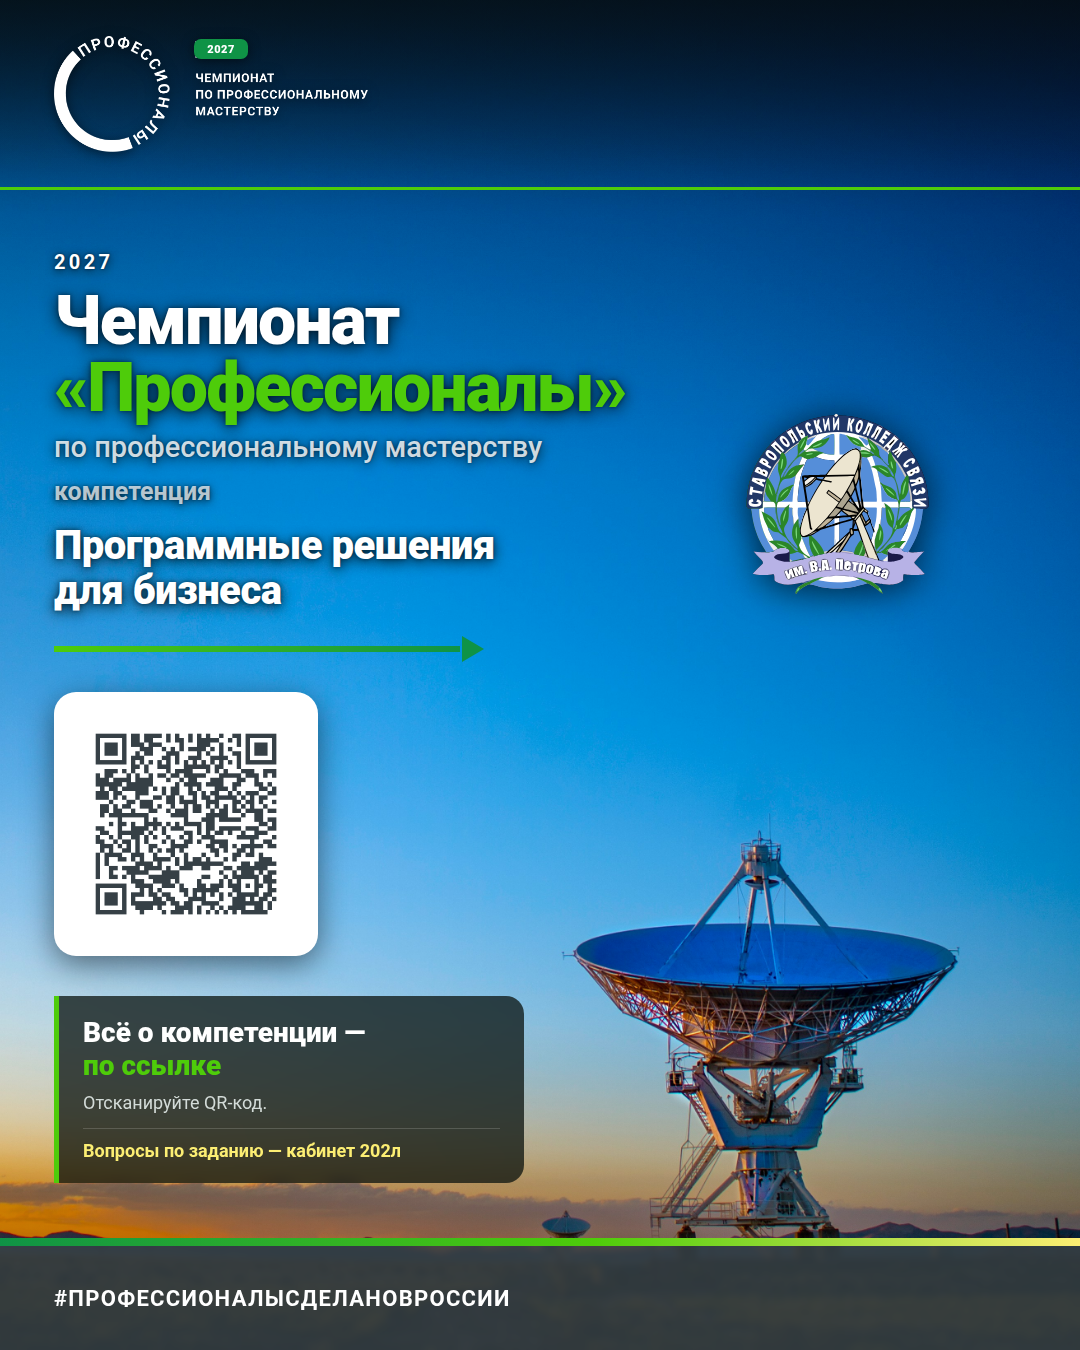
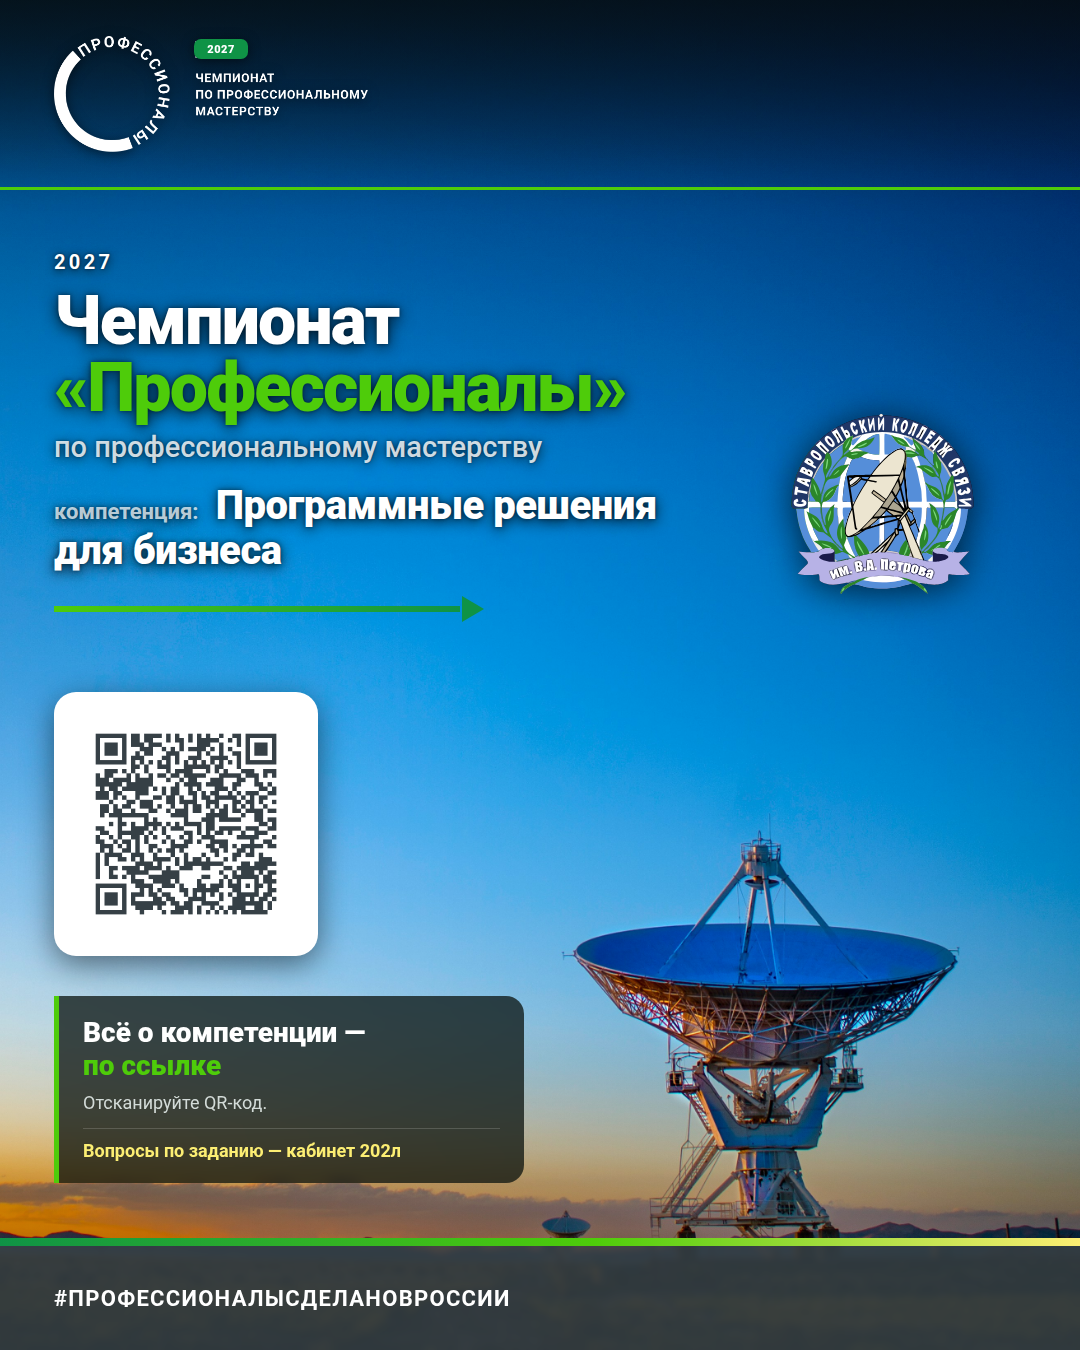
refactor(poster): «компетенция:» подписью внутри заголовка
Слово «компетенция» было отдельной строкой над названием. Теперь это
подпись внутри самого заголовка, на одной строке с названием:

  компетенция: Программные решения
  для бизнеса

Подпись набрана мельче названия (22 px против 40 px в основном,
30 px против 52 px в варианте A) и приглушена, но стоит в том же
абзаце — воспринимается как единая конструкция, а не как отдельный блок.

Чтобы строка поместилась, расширена текстовая колонка и сдвинут слот
логотипа: в основном постере 560 → 660 px (слот логотипа x 650 → 740),
в варианте A 720 → 940 px, там справа только декоративные шевроны
с прозрачностью .16. Ширины померил по рендеру: « Программные решения»
в Roboto 900 на 40 px — около 447 px, подпись на 25 px — 164 px,
вместе 619 px, то есть в колонку 620 px оно попадало впритык и переносилось.

Changed region(s): [[0.0306, 0.3422, 0.6111, 0.4978], [0.6722, 0.28, 0.9167, 0.4667]]

diff --git a/post/poster.html b/post/poster.html
@@ -93,12 +93,12 @@
      Без подложки: чистый svg поверх фотографии. Чтобы отделить знак от
      тёмного неба, вместо фона — только тень, и она не перекрывает фон.
      Выравнивание задаёт слот: это и есть свободная зона в правой части
-     полотна — от текстовой колонки до правого поля (x 650…1026) и от
+     полотна — от текстовой колонки до правого поля (x 740…1026) и от
      низа шапки до верха антенны (y 236…772). Логотип центрируется в ней. */
   .college-slot {
     position: absolute; z-index: 5;
-    left: 650px; top: 236px;
-    width: 376px; height: 536px;
+    left: 740px; top: 236px;
+    width: 286px; height: 536px;
     display: flex; align-items: center; justify-content: center;
   }
   /* Чистый svg: подложки нет, отделяет знак от неба только тень. */
@@ -114,7 +114,7 @@
   .content {
     position: absolute; z-index: 5;
     left: 54px; top: 250px;
-    width: 560px;
+    width: 660px;
   }
 
   .eyebrow {
@@ -141,21 +141,21 @@
     text-shadow: 0 2px 12px rgba(0,0,0,.80), 0 0 3px rgba(0,0,0,.45);
   }
 
-  /* Призыв — самый мелкий из крупных */
-  .sub {
-    margin-top: 12px;
-    font-size: 25px; line-height: 1.2; font-weight: 700;
-    color: rgba(255,255,255,.72);
-    text-shadow: 0 2px 10px rgba(0,0,0,.80), 0 0 3px rgba(0,0,0,.45);
-  }
-
-  /* Компетенция — второй по важности блок */
+  /* Компетенция — второй по важности блок. Подпись «компетенция:»
+     стоит внутри заголовка, на одной строке с названием, но мельче:
+     подпись 25 px, название 40 px. */
   h2 {
-    margin-top: 16px;
+    margin-top: 18px;
     font-size: 40px; line-height: 1.14; font-weight: 900;
     color: var(--white);
     letter-spacing: -.5px;
     text-shadow: 0 3px 14px rgba(0,0,0,.80), 0 0 4px rgba(0,0,0,.50);
+  }
+  h2 .label {
+    font-size: 22px; font-weight: 700;
+    letter-spacing: normal;
+    color: rgba(255,255,255,.74);
+    margin-right: 8px;
   }
 
   .rule { display: flex; align-items: center; margin: 22px 0 0; width: 430px; }
@@ -250,9 +250,7 @@
     <h1>Чемпионат<br><span class="name">«Профессионалы»</span></h1>
     <p class="kicker">по профессиональному мастерству</p>
 
-    <p class="sub">компетенция</p>
-
-    <h2>Программные решения<br>для бизнеса</h2>
+    <h2><span class="label">компетенция:</span> Программные решения<br>для бизнеса</h2>
     <div class="rule"><div class="bar"></div><div class="arrow"></div></div>
   </div>
 

diff --git a/post/poster-variant-a.html b/post/poster-variant-a.html
@@ -98,7 +98,7 @@
   .content {
     position: absolute; z-index: 5;
     left: 54px; top: 268px;
-    width: 720px;
+    width: 940px;
   }
   .eyebrow {
     font-size: 21px; font-weight: 700; letter-spacing: 3.4px;
@@ -120,15 +120,15 @@
     font-size: 36px; line-height: 1.16; font-weight: 500;
     color: rgba(255,255,255,.82);
   }
-  .sub {
-    margin-top: 10px;
-    font-size: 30px; line-height: 1.2; font-weight: 700;
-    color: rgba(255,255,255,.72);
-  }
   h2 {
-    margin-top: 16px;
+    margin-top: 18px;
     font-size: 52px; line-height: 1.1; font-weight: 900;
     color: var(--white); letter-spacing: -1px;
+  }
+  h2 .label {
+    font-size: 30px; font-weight: 700; letter-spacing: normal;
+    color: rgba(255,255,255,.74);
+    margin-right: 10px;
   }
   .rule { display: flex; align-items: center; margin: 24px 0 0; width: 620px; }
   .rule .bar { height: 10px; flex: 1 1 auto;
@@ -206,9 +206,7 @@
     <h1>Чемпионат<br><span class="name">«Профессионалы»</span></h1>
     <p class="kicker">по профессиональному мастерству</p>
 
-    <p class="sub">компетенция</p>
-
-    <h2>Программные решения<br>для бизнеса</h2>
+    <h2><span class="label">компетенция:</span> Программные решения<br>для бизнеса</h2>
     <div class="rule"><div class="bar"></div></div>
   </div>
 
